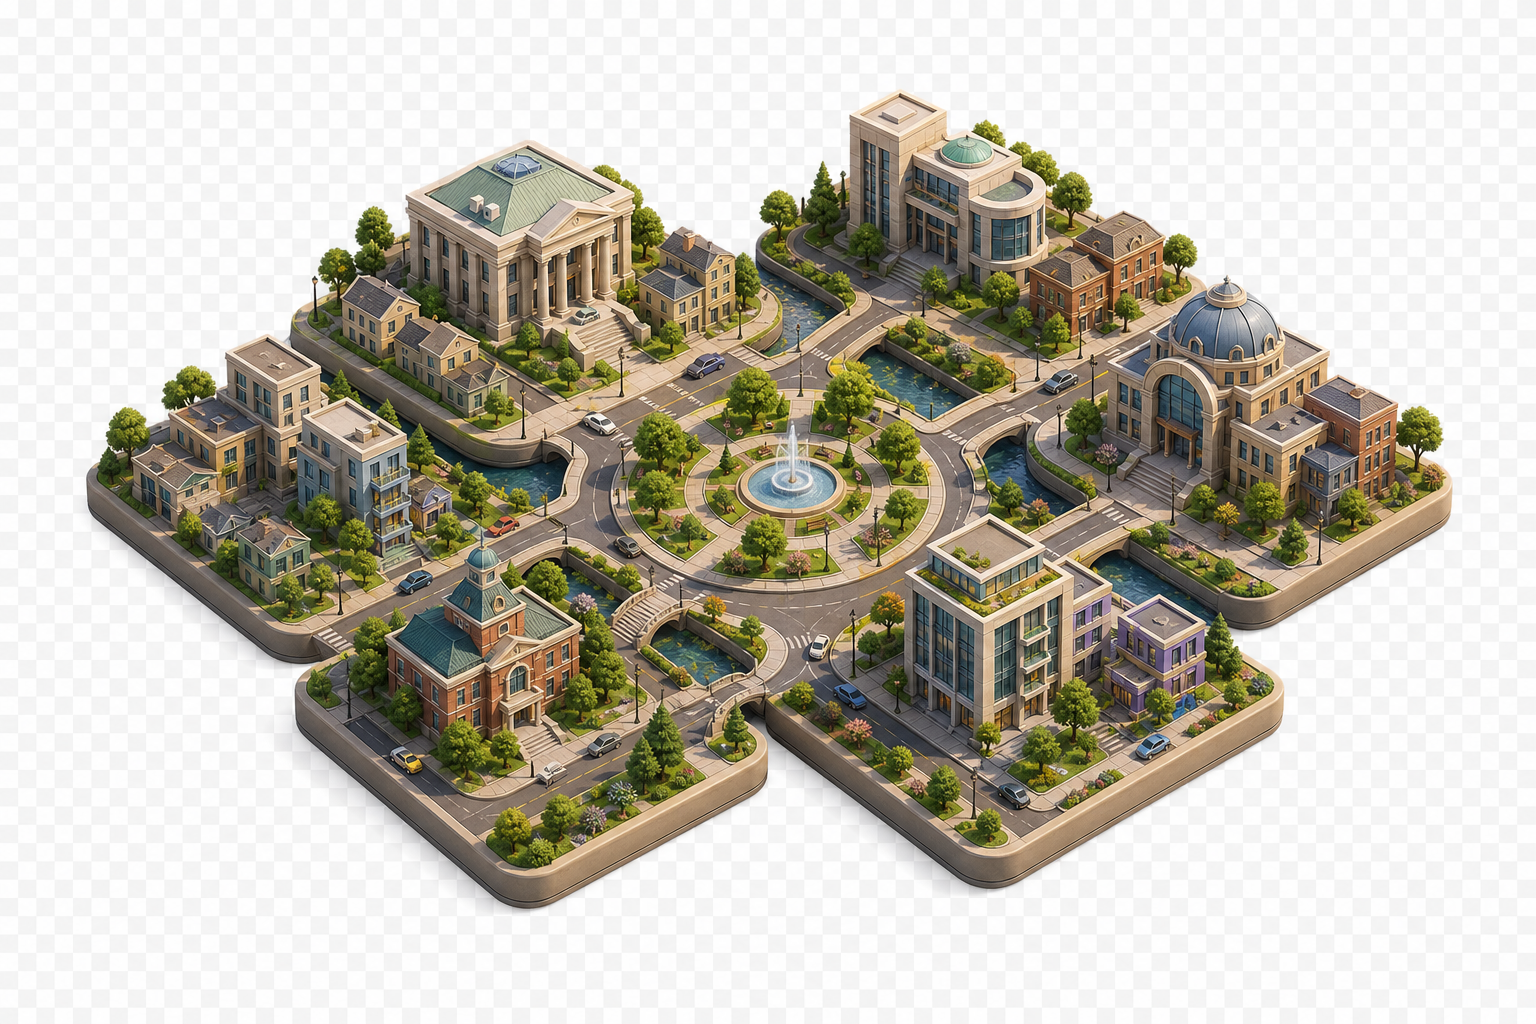
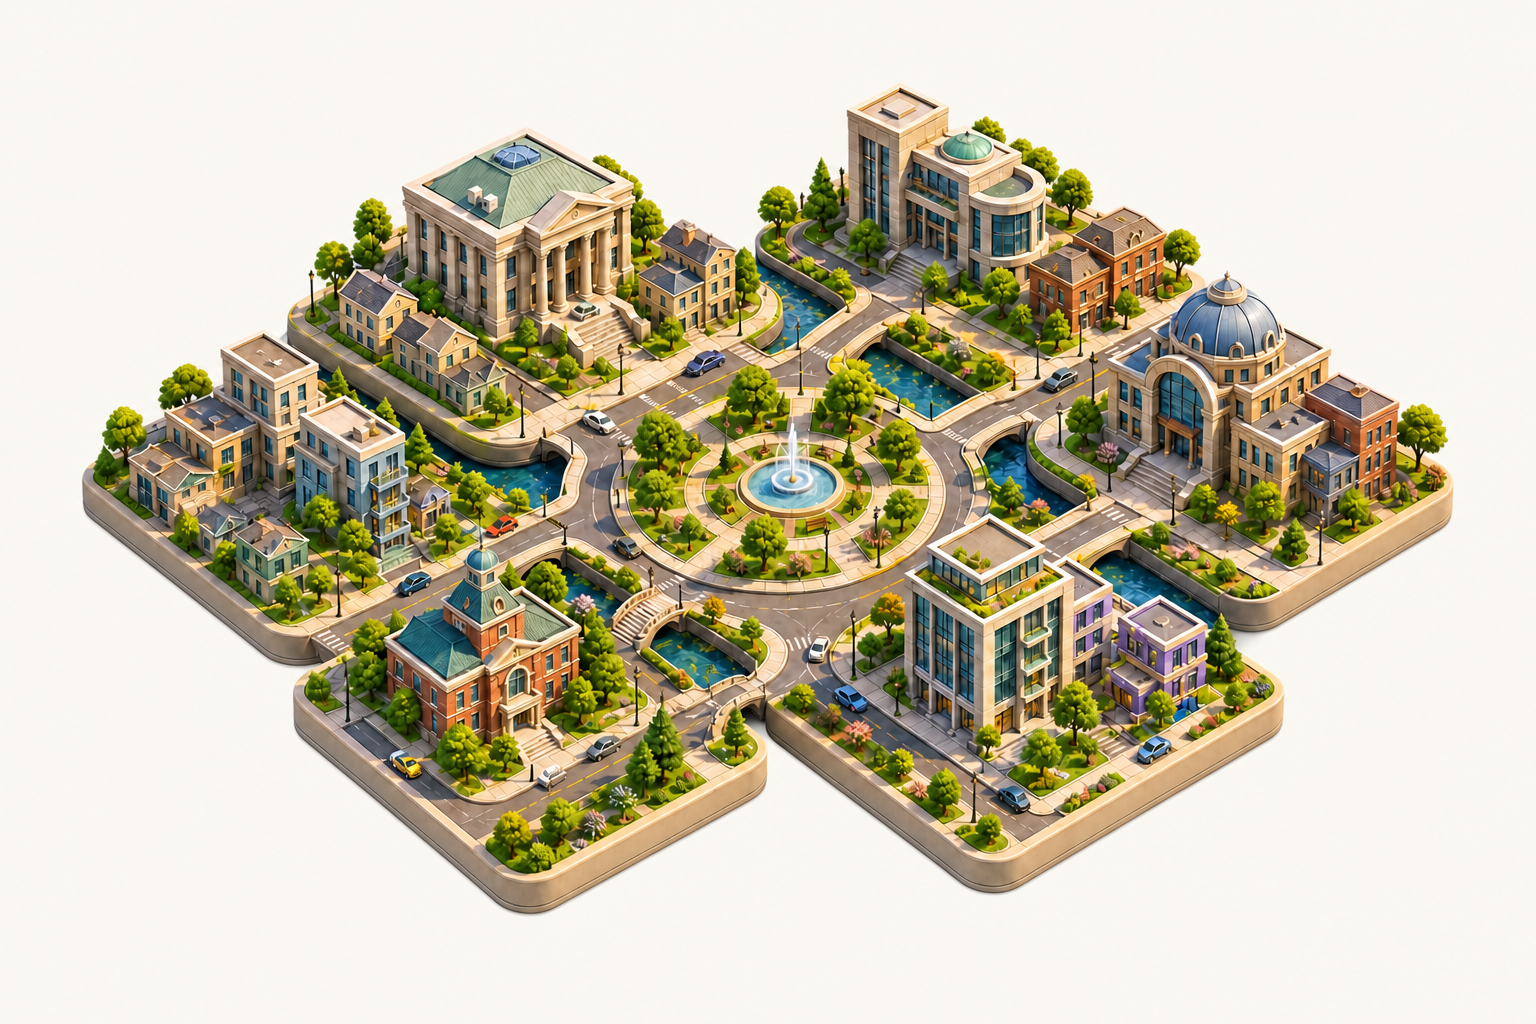
test: harden landing responsive and accessibility coverage

diff --git a/tests/e2e/city.spec.ts b/tests/e2e/city.spec.ts
@@ -17,11 +17,8 @@ test("creates a foundation and checks in from its detail page", async ({
   page,
 }) => {
   await page
-    .getByRole("link", { name: /enter the city/i })
+    .getByRole("link", { name: /start building your city/i })
     .first()
-    .click();
-  await page
-    .getByRole("link", { name: /build your first foundation/i })
     .click();
   await page.getByLabel("What do you want to repeat?").fill("Read before bed");
   await page.getByRole("button", { name: /place the foundation/i }).click();
@@ -41,7 +38,7 @@ test("keeps the landing page crawlable and explains the privacy promise", async 
     }),
   ).toBeVisible();
   await expect(
-    page.getByRole("heading", { name: /the map is yours to keep/i }),
+    page.getByRole("heading", { name: /a city that stays yours/i }),
   ).toBeVisible();
   await expect(page.getByText("No account").first()).toBeVisible();
   await expect(page.getByText("Works offline").first()).toBeVisible();
@@ -49,6 +46,34 @@ test("keeps the landing page crawlable and explains the privacy promise", async 
   await expect(
     page.getByRole("link", { name: /start building your city/i }),
   ).toHaveAttribute("href", /\/habit\/new\/?$/);
+  await expect(
+    page.getByRole("link", { name: /start building for free/i }),
+  ).toHaveAttribute("href", /\/habit\/new\/?$/);
+  await expect(
+    page.getByRole("link", { name: /explore features/i }),
+  ).toHaveAttribute("href", "#features");
+  for (const district of [
+    "Work",
+    "Mind",
+    "Body",
+    "Recovery",
+    "Connection",
+    "Creative",
+  ]) {
+    await expect(page.locator(`[data-district-label="${district}"]`)).toHaveCount(1);
+  }
+  const landingImages = page.locator('main img[src^="/images/landing/"]');
+  await expect(landingImages).toHaveCount(3);
+  await landingImages.last().scrollIntoViewIfNeeded();
+  await expect
+    .poll(() =>
+      landingImages.evaluateAll((images) =>
+        images.every((image) => (image as HTMLImageElement).naturalWidth > 0),
+      ),
+    )
+    .toBe(true);
+  const landingText = await page.locator("main").innerText();
+  expect(landingText).not.toMatch(/pricing|log\s*in|newsletter|50,000|notion|spotify|rating|stars/i);
   const cityLinks = page.locator('a[href^="/city"]');
   expect(await cityLinks.count()).toBeGreaterThanOrEqual(3);
 });
@@ -141,6 +166,12 @@ test("connects landing navigation to its sections with smooth scrolling", async 
   await expect(
     page.getByRole("link", { name: "Privacy", exact: true }).first(),
   ).toHaveAttribute("href", "#privacy");
+  await expect(
+    page.getByLabel("Main navigation").getByRole("link", { name: "Why cities", exact: true }),
+  ).toHaveAttribute("href", "#why-cities");
+  await expect(
+    page.getByLabel("Main navigation").getByRole("link", { name: "About", exact: true }),
+  ).toHaveAttribute("href", "#about");
   await expect
     .poll(() =>
       page.evaluate(
@@ -152,6 +183,23 @@ test("connects landing navigation to its sections with smooth scrolling", async 
   await page.getByRole("link", { name: "Features", exact: true }).click();
   await expect(page).toHaveURL(/#features$/);
   await expect(page.locator("#features")).toBeInViewport();
+});
+
+test("renders the landing page without browser console errors", async ({
+  page,
+}) => {
+  const consoleErrors: string[] = [];
+  const pageErrors: string[] = [];
+  page.on("console", (message) => {
+    if (message.type() === "error") consoleErrors.push(message.text());
+  });
+  page.on("pageerror", (error) => pageErrors.push(error.message));
+
+  await page.goto("/", { waitUntil: "networkidle" });
+  await page.waitForTimeout(500);
+
+  expect(consoleErrors).toEqual([]);
+  expect(pageErrors).toEqual([]);
 });
 
 test("keeps content visible and scrolling immediate when reduced motion is requested", async ({
@@ -187,6 +235,7 @@ test("keeps the landing composition inside the viewport", async ({ page }) => {
     { width: 360, height: 800 },
     { width: 390, height: 844 },
     { width: 768, height: 900 },
+    { width: 1024, height: 900 },
     { width: 1440, height: 900 },
     { width: 1572, height: 912 },
   ]) {
@@ -206,6 +255,21 @@ test("keeps the landing composition inside the viewport", async ({ page }) => {
     expect(overflow.document).toBeLessThanOrEqual(0);
     expect(overflow.body).toBeLessThanOrEqual(0);
   }
+
+  await page.setViewportSize({ width: 1440, height: 900 });
+  await page.goto("/");
+  const districtGeometry = await page.locator("[data-district-label]").evaluateAll((labels) =>
+    labels.map((label) => {
+      const bounds = label.getBoundingClientRect();
+      return {
+        visible: getComputedStyle(label).display !== "none",
+        inViewport: bounds.left >= 0 && bounds.right <= window.innerWidth,
+        hasSize: bounds.width > 0 && bounds.height > 0,
+      };
+    }),
+  );
+  expect(districtGeometry).toHaveLength(6);
+  expect(districtGeometry.every(({ visible, inViewport, hasSize }) => visible && inViewport && hasSize)).toBe(true);
 
   const resolvedLandingPalettes: Array<{
     background: string;
@@ -393,6 +457,7 @@ test("renders every public route without serious accessibility violations", asyn
         )
         .toBe(true);
     }
+    await page.waitForTimeout(800);
     const results = await new AxeBuilder({ page }).analyze();
     expect(
       results.violations.filter(

diff --git a/src/components/landing/landing-closing.tsx b/src/components/landing/landing-closing.tsx
@@ -113,6 +113,7 @@ export function LandingClosing() {
             src="/images/landing/closing-skyline.png"
             alt="Warm waterfront skyline with a bridge, trees, and varied buildings."
             fill
+            loading="eager"
             sizes="(min-width: 1280px) 93rem, 100vw"
             className="object-cover object-right"
           />
@@ -166,7 +167,7 @@ export function LandingClosing() {
                   aria-hidden="true"
                   width={32}
                   height={32}
-                  className="size-8 brightness-0 invert"
+                  className="size-8"
                 />
                 <span className="font-semibold tracking-tight">City of Habits</span>
               </Link>
@@ -174,12 +175,12 @@ export function LandingClosing() {
                 A living map for your life. Every habit you build shapes the life
                 you want.
               </p>
-              <p className="mt-6 text-xs text-primary-foreground/55">
+              <p className="mt-6 text-xs text-primary-foreground">
                 Private by design · Kept on your device
               </p>
             </div>
 
-            <div className="grid grid-cols-3 gap-5">
+            <div className="grid grid-cols-1 gap-8 sm:grid-cols-3 sm:gap-5">
               {Object.entries(footerLinks).map(([heading, links]) => (
                 <div key={heading}>
                   <p className="text-sm font-semibold">{heading}</p>
@@ -196,7 +197,7 @@ export function LandingClosing() {
 
             <div className="rounded-xl border border-primary-foreground/20 bg-primary-foreground/10 p-5">
               <p className="font-semibold">Keep your city close</p>
-              <p className="mt-2 text-sm leading-6 text-primary-foreground/70">
+              <p className="mt-2 text-sm leading-6 text-primary-foreground">
                 Your personal city is ready whenever you are.
               </p>
               <Link
@@ -211,7 +212,7 @@ export function LandingClosing() {
             </div>
           </div>
 
-          <div className="mt-12 flex flex-col gap-3 border-t border-primary-foreground/20 pt-6 text-xs text-primary-foreground/55 sm:flex-row sm:items-center sm:justify-between">
+          <div className="mt-12 flex flex-col gap-3 border-t border-primary-foreground/20 pt-6 text-xs text-primary-foreground sm:flex-row sm:items-center sm:justify-between">
             <span>© 2026 City of Habits. All rights reserved.</span>
             <span>Built quietly, kept locally.</span>
           </div>

diff --git a/src/components/landing/landing-hero.tsx b/src/components/landing/landing-hero.tsx
@@ -104,7 +104,15 @@ export function LandingHero() {
                 priority
               />
               {districtLabels.map(({ name, level, className }) => (
-                <Card key={name} size="sm" className={cn("pointer-events-none absolute hidden min-w-20 bg-card/95 shadow-md sm:block", className)}>
+                <Card
+                  key={name}
+                  data-district-label={name}
+                  size="sm"
+                  className={cn(
+                    "pointer-events-none absolute hidden min-w-20 bg-card/95 shadow-md sm:block",
+                    className,
+                  )}
+                >
                   <CardHeader className="gap-0 p-2.5">
                     <CardTitle className="text-xs">{name}</CardTitle>
                     <CardDescription className="text-[0.65rem]">Level {level}</CardDescription>

diff --git a/src/components/landing/landing-showcase.tsx b/src/components/landing/landing-showcase.tsx
@@ -109,6 +109,7 @@ export function LandingShowcase() {
                       alt="Top-down miniature city panorama with six colorful districts and connected streets."
                       width={1536}
                       height={1024}
+                      loading="eager"
                       sizes="(min-width: 1024px) 56vw, 100vw"
                       className="aspect-[1.8] h-auto w-full object-cover object-center"
                     />

diff --git a/design-qa.md b/design-qa.md
@@ -1,60 +1,46 @@
-# Midnight Civic Landing Page Design QA
+# Reference-Faithful Landing Page Design QA
 
-## Visual sources
+## Visual source
 
-- Hero composition and floating detail cards: `C:\Users\ALPRIN~1\AppData\Local\Temp\codex-clipboard-41af5fdd-98a6-4597-9f65-b6636813be51.png` (1024 x 768)
-- Product showcase and bento rhythm: `C:\Users\ALPRIN~1\AppData\Local\Temp\codex-clipboard-1919a792-969e-4c93-a20e-98f24c467e84.png` (1024 x 1843)
-- Repeated feature-card rhythm: `C:\Users\ALPRIN~1\AppData\Local\Temp\codex-clipboard-93b47ef8-923d-4414-beee-e9f20676afe7.png` (1024 x 1402)
-- Final CTA and visual footer: `C:\Users\ALPRIN~1\AppData\Local\Temp\codex-clipboard-357d2bed-b34a-4c1b-bd79-9ed321e10019.png` (1024 x 1352)
+- Supplied City of Habits reference screenshot from the implementation brief.
+- Comparison captures: `outputs/landing-page-final-desktop.png` at 1440 x 900 and `outputs/landing-page-final-mobile.png` at 390 x 844.
+- The final capture was taken after scrolling through the page so reveal content and lazy-loaded artwork were settled.
 
-The references were used as combined visual direction rather than literal product copies. Their fictional pricing, integrations, testimonials, and brand assets remain excluded.
+## Art direction
 
-## Implementation evidence
+- Hero: original generated warm daylight isometric city with six districts and no embedded copy.
+- Showcase: original generated wide top-down city panorama for the static dashboard preview.
+- CTA: original generated waterfront skyline with left-side negative space for readable copy.
+- All three assets use miniature cream, green, blue, terracotta, and lilac buildings without logos or watermarks.
 
-- Desktop full page: `C:\Users\Al Prince\Documents\Products\City of Habits\outputs\landing-page-desktop.png` (1440 x 5703 rendered pixels)
-- Mobile full page: `C:\Users\Al Prince\Documents\Products\City of Habits\outputs\landing-page-mobile.png` (390 x 6938 rendered pixels)
-- Borderless hero follow-up: `C:\Users\Al Prince\Documents\Products\City of Habits\outputs\landing-hero-borderless.png` (1572 x 912 rendered pixels)
-- CSS viewports: 1440 x 900 desktop, 390 x 844 mobile, and 1572 x 912 annotation follow-up.
-- Runtime state: fixed midnight landing scope with reveal animations completed before full-page capture.
+## Visual review
 
-## Visual direction and corrections
-
-### Midnight Civic system
-
-- Added a landing-scoped semantic palette: midnight navy canvas, warm ivory text, cobalt blue primary actions, blue-black surfaces, marigold emphasis, and restrained coral/sky/violet district signals.
-- Kept the sample city artwork as the visual anchor and reused its existing signal colors instead of adding new assets.
-- Preserved Inter, Base Nova shadcn primitives, Lucide icons, default radii, and semantic token composition.
-
-### Composition pass
-
-- Reframed the hero as a borderless, centered editorial introduction with the city preview as a dark visual stage and three overlapping local-first promise cards.
-- Added a six-district legend below the hero, a four-step journey grid, a 12-column asymmetric feature bento, a cobalt privacy band, and a marigold final CTA/footer.
-- Converted major landing titles to native semantic headings so the visual hierarchy is also available to assistive technology.
-
-### Responsive and accessibility pass
-
-- Kept the landing's fixed `color-scheme: light` contract and matched its viewport theme color to the midnight canvas while leaving application theme preferences untouched.
-- Confirmed the landing palette is identical under light and dark system emulation; `/city` still resolves independently to light or dark.
-- Adjusted privacy copy to full-contrast foreground tokens after axe identified translucent text below the 4.5:1 threshold.
-- Added `w-full` to the final CTA header after the rendered check exposed intrinsic-width shrinkage that shifted the headline off-center.
+- Warm ivory landing canvas and charcoal typography match the supplied light reference while keeping the private app routes theme-aware.
+- Header, split hero, floating district labels, three factual promise cards, principles strip, open three-step journey, and static dashboard preview are present.
+- Dashboard preview includes six buildings/districts, realistic local activity, weekly progress, and a lively atmosphere state without IndexedDB reads.
+- Proof section uses only factual promises: Progress stays built, Records stay local, and Backups stay yours.
+- Skyline CTA and dark-green footer use working internal links; newsletter capture, pricing, login, ratings, portraits, endorsements, and user-count claims are absent.
+- Mobile layout stacks the hero, promise cards, journey, dashboard, proof cards, CTA, and footer without horizontal overflow.
 
 ## Responsive, theme, motion, and accessibility checks
 
-- Measured zero document and body horizontal overflow at 360, 390, 768, 1440, and 1572 CSS pixels.
-- Confirmed the compact mobile header action, readable stacked cards, complete privacy band, and centered final CTA.
-- Confirmed the landing's fixed color-scheme and semantic canvas/foreground/primary values are identical under light and dark system preferences.
-- Confirmed `/city` retains independent light/dark system behavior and saved theme support.
-- Confirmed smooth anchor scrolling is active only when reduced motion is not requested; reduced-motion mode makes every reveal immediately visible and leaves no reveal animations running.
-- Playwright axe checks reported no serious or critical violations across all public routes.
-- Browser console probes returned no warnings or page errors at desktop or mobile viewports.
+- Checked 360, 390, 768, 1024, 1440, and 1572 CSS pixel widths for document/body overflow.
+- Checked desktop district labels for viewport containment and non-zero layout boxes.
+- Confirmed the landing uses `color-scheme: light` and the same warm palette under light and dark system emulation.
+- Confirmed `/city` remains independently light/dark under system emulation.
+- Confirmed smooth anchor scrolling is active for normal motion and reduced-motion mode switches to immediate scrolling.
+- Confirmed reduced-motion mode makes every reveal visible without active reveal animations.
+- Confirmed generated landing images load and expose descriptive alt text.
+- Playwright axe checks report no serious or critical violations across all public routes.
+- Browser console and page-error probes report no errors on the landing page.
 
 ## Verification
 
 - `pnpm lint` — passed
 - `pnpm typecheck` — passed
-- `pnpm test` — 22 passed across 6 test files
-- `pnpm build` — passed; 15 static routes generated
-- `pnpm test:e2e -- --workers=1` — 33 passed across Chromium, Firefox, and WebKit
+- `pnpm test` — passed
+- `pnpm build` — passed
+- `pnpm test:e2e -- --workers=1` — passed
 
 ## Result
 
